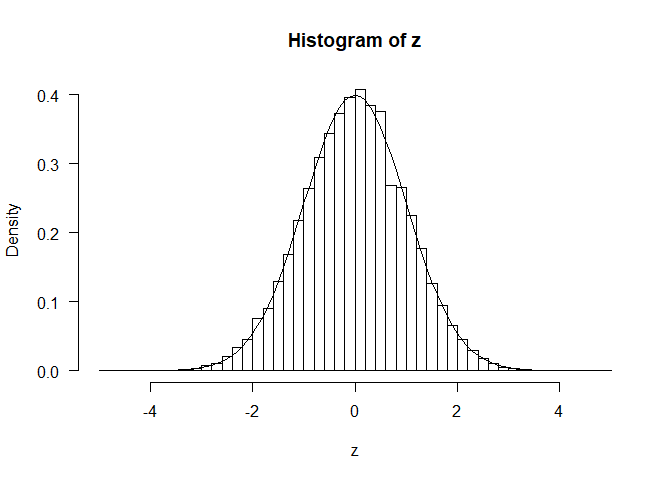
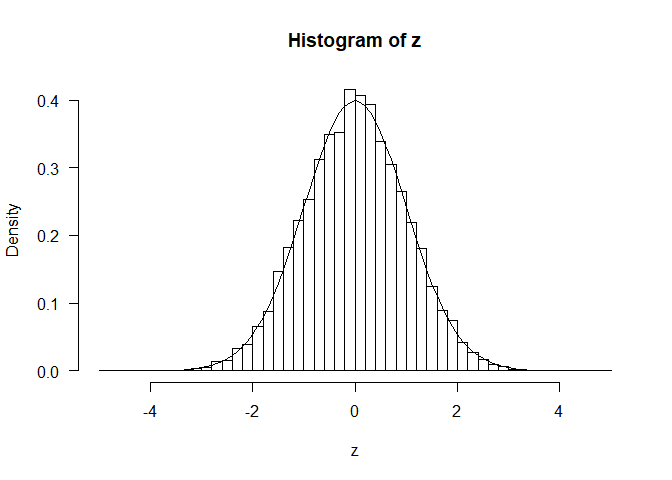
update

diff --git a/10.Continuous_random_variable.md b/10.Continuous_random_variable.md
@@ -65,7 +65,7 @@ runif(n, min=0, max=1)
 var(runif(100000))  # approximately 1/12
 ```
 
-    ## [1] 0.08325037
+    ## [1] 0.08363647
 
 ### Two dimensional uniform random variable
 
@@ -92,7 +92,7 @@ Y <- sign(Z)*abs(X)
 cor(X,Y)   # correlation coefficient is almost 0
 ```
 
-    ## [1] -0.004261592
+    ## [1] 0.001429173
 
 ``` r
 plot(X,Y, cex=0.1) # check scatter plot
@@ -234,9 +234,9 @@ for (rho in rhos){
 }
 ```
 
-    ## When rho is  -0.7  the variance of X+Y is : 0.5813586 
-    ## When rho is  0  the variance of X+Y is : 1.889436 
-    ## When rho is  0.7  the variance of X+Y is : 3.195518
+    ## When rho is  -0.7  the variance of X+Y is : 0.5862983 
+    ## When rho is  0  the variance of X+Y is : 2.058156 
+    ## When rho is  0.7  the variance of X+Y is : 3.661904
 
 t distribution
 --------------
@@ -481,10 +481,10 @@ text(2,0.8,"Weibull(2,3) density")
 
 -   Let *T* be the time until the first major accident.
 
--   Let *α**t* be the chance that a single power station age *t* has an accident in the next year.
+-   Let *α* *t* be the chance that a single power station age *t* has an accident in the next year.
 
--   After *t* years there are *t* power stations operating, so the total rate of accident is *α**t*<sup>2</sup>.
-    -   m*λ* *t*<sup>(*m* − 1)</sup> = *α* *t*<sup>2</sup> =&gt; m=3, *λ* = *α*/3
+-   After *t* years there are *t* power stations operating, so the total rate of accident is *α* *t*<sup>2</sup>.
+    -   m*λ* *t*<sup>(*m* − 1)</sup> = *α* *t*<sup>2</sup> implies that m=3, *λ* = *α*/3
 -   Thus, *X* ~ Weibull(*α*/3, 3).
 
 -   For example, let *α* be 1/1,000,000.
